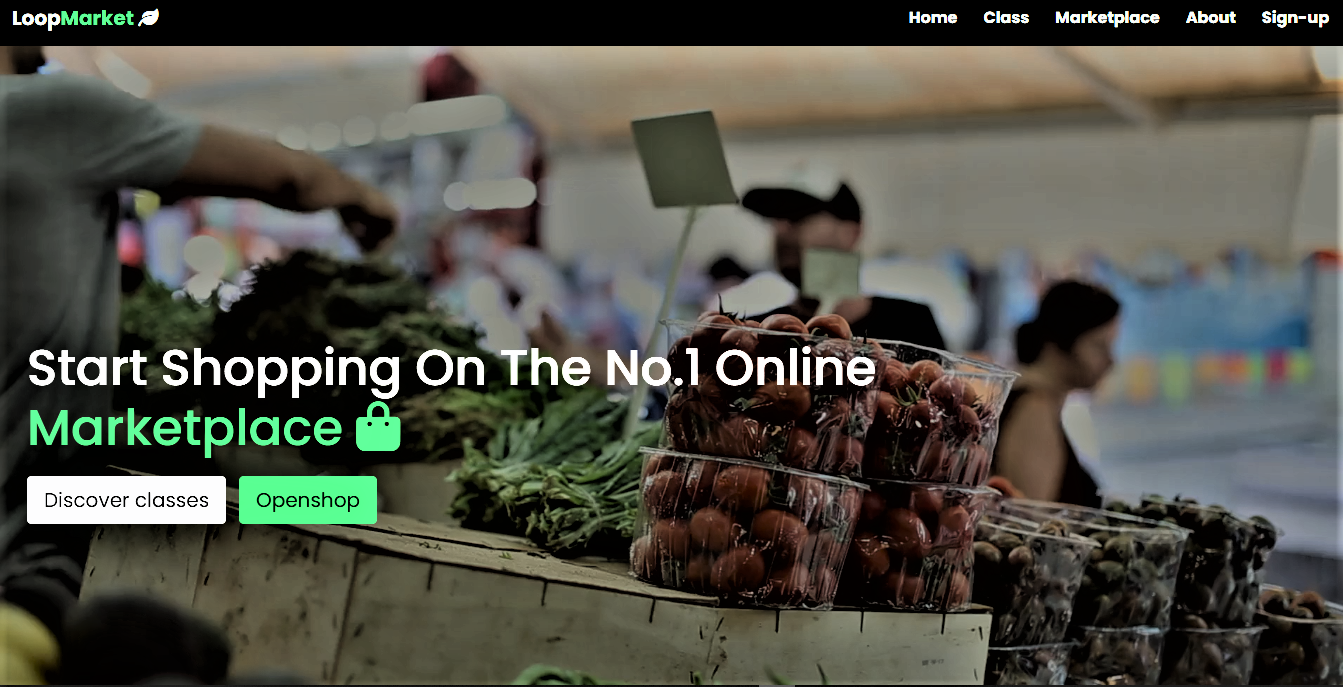
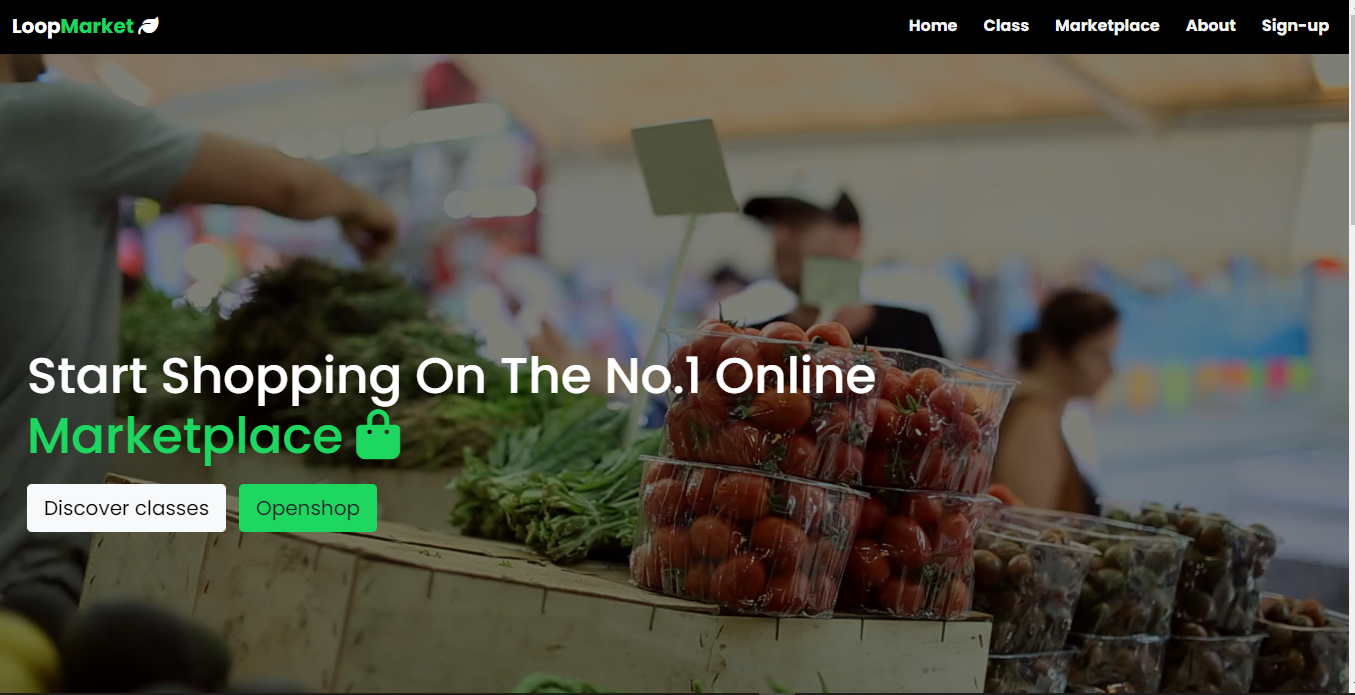
updates

diff --git a/style.css b/style.css
@@ -682,7 +682,7 @@ footer span a:hover {
 
     .home .in {
         width: 100%;
-        font-size: 13px;
+        font-size: 18px;
     }
 
     .home .home-content {
@@ -698,7 +698,7 @@ footer span a:hover {
     }
 
     .home .home-content a {
-        font-size: 20px;
+        font-size: 18px;
         padding: 8px 5px;
     }
 
@@ -778,10 +778,6 @@ footer span a:hover {
         font-size: 32px;
     }
 
-    .home .home-content a {
-        font-size: 15px;
-        padding: 8px 2px;
-    }
 }
 
 @media (max-width: 500px) {

diff --git a/app.js b/app.js
@@ -67,7 +67,7 @@ typed();
 
 
 
-const textArray = ["HTML.", "CSS.", "ANGULAR.", "JAVASCRIPT.", "TYPESCRIPT.", "BOOTSTRAP.", "JSON.", "FIREBASE.", ];
+const textArray = ["HTML.", "CSS.", "SASS.", "ANGULAR.", "JAVASCRIPT.", "TYPESCRIPT.", "BOOTSTRAP.", "JSON.", "FIREBASE.", ];
 const typingDelay = 100;
 const erasingDelay = 100;
 const newTextDelay = 1000;
